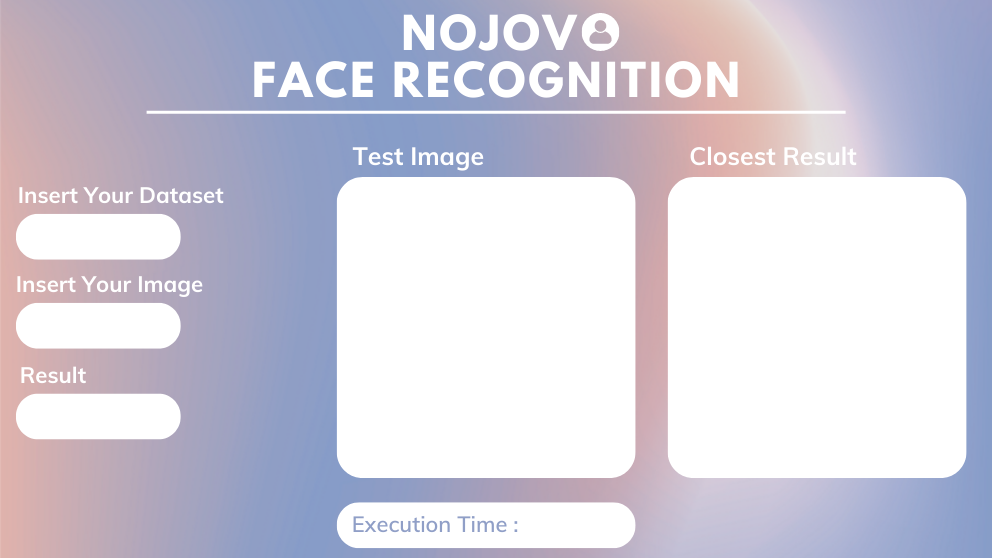
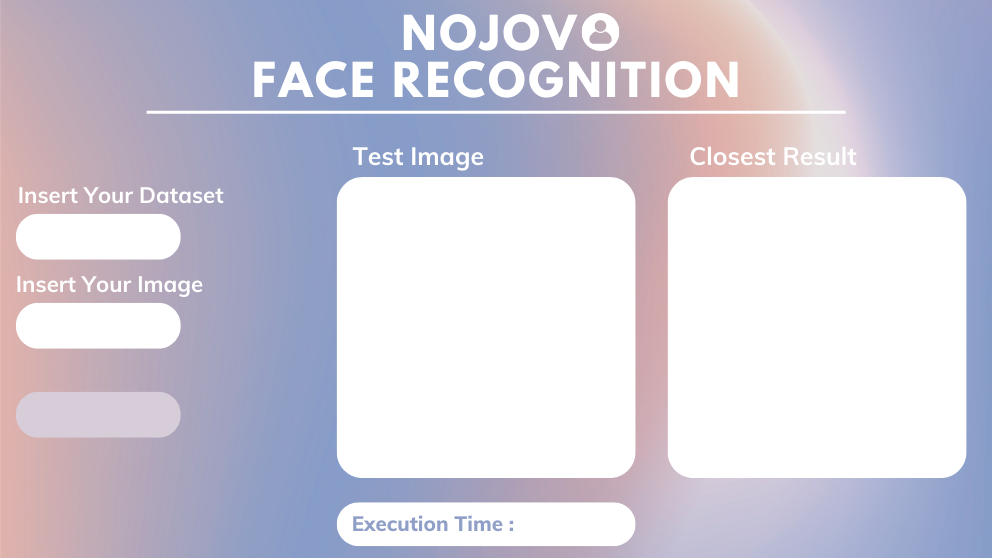
ngerapihin main

Changed region(s): [[0.0, 0.6398, 0.1875, 0.7921], [0.3438, 0.914, 0.625, 1.0]]

diff --git a/src/main.py b/src/main.py
@@ -1,0 +1,125 @@
+from tkinter import *
+from tkinter import filedialog
+from PIL import ImageTk, Image
+from step1 import *
+from eigenfaces import *
+from eucidilian import *
+import matplotlib.pyplot as plt
+import numpy as np
+import cv2
+import os
+import time
+
+def get_elapsed_time():
+    return end_time - start_time
+    
+def face_recog():
+    
+    global folder_path, file_path, start_time, end_time
+    start_time = time.time()
+    data = folder_path.get()
+    image_name = []
+    for filename in os.listdir(data):
+        image_name.append(filename)
+    images = imagevector(data)
+    mean = meanSetImg(images)
+    differenceimg = setDiffImg(images,mean)
+    covariance = covarian(differenceimg)
+    tempval, eigvect = qreigen(covariance)
+
+    eigfacearr = eigface(eigvect,differenceimg)
+
+    test = file_path.get()
+    testimg = cv2.imread(test,0)
+    testimg = cv2.resize(testimg,(256,256))
+    testimg = np.array(testimg).flatten()
+    for i in range(256*256) :
+        testimg[i] -= mean[i]
+
+    testimg = reshapeimg(testimg)
+    for i in range (len(differenceimg)):
+        differenceimg[i] = reshapeimg(differenceimg[i])
+    print(len(differenceimg))
+    wtest = weighttest(eigfacearr,testimg)
+    w = weightdata(eigfacearr,differenceimg)
+    print(len(w))
+    x = distance(wtest,w)
+    # showimg(images,x)
+    print(image_name[x])
+    closest_path = os.path.join(data, image_name[x])
+    closest_img = Image.open(closest_path)
+    closest_img = closest_img.resize((240, 240))
+    closest_img = ImageTk.PhotoImage(closest_img)
+    closest_img_label = Label(image=closest_img)
+    closest_img_label.image = closest_img
+    closest_img_label.place(x=695, y=205)
+    end_time = time.time()
+    ex_time1 = get_elapsed_time()
+    ex_time = str(round(ex_time1, ndigits=2)) + " detik"
+    ex_time_label = Label(window, text= ex_time , font=("Arial Bold", 13), fg="#909fc7", bg="white", bd=0)
+    ex_time_label.place(x=532, y=515)
+    
+def open_folder():
+    global no_folder
+    filename = filedialog.askdirectory(initialdir = "test/dataset", title = "Select A Folder")
+    shortfilename = filename.split('/')[len(filename.split('/'))-1]
+    label_folder = Label(window, text=shortfilename, font=("Arial Bold", 9), fg="#909fc7", bg="white", bd=0)
+    label_folder.place(x=190, y=230)
+    no_folder.config(text=label_folder)
+    folder_path.set(filename)
+    folder_path.get()
+
+def open_file():
+    global my_image
+    filename = filedialog.askopenfilename(initialdir = "test/dataset", title = "Select A File", filetype = (("jpeg files", "*.jpg"), ("all files", "*.*")))
+    # my_label = Label(window, text=window.filename)       
+    my_image = Image.open(filename)
+    my_image = my_image.resize((240, 240), Image.ANTIALIAS)
+    my_image = ImageTk.PhotoImage(my_image)
+    my_image_label = Label(window, image=my_image)
+    my_image_label.image = my_image
+    my_image_label.place(x=365, y=205)
+    shortfilename = filename.split('/')[len(filename.split('/'))-1]
+    label_image = Label(window, text=shortfilename, font=("Arial Bold", 9), fg="#909fc7", bg="white", bd=0)
+    label_image.place(x=190, y=320)
+    no_file2.config(text=label_image)
+    file_path.set(filename)
+    file_path.get()
+    
+window = Tk() 
+window.title("Face Recognition")    
+window.geometry("992x558")
+window.resizable(0, 0)
+bg = PhotoImage(file = "src/bg.png")
+label_bg = Label(window, image = bg)
+label_bg.place(x=0, y=0, relwidth=1, relheight=1)
+no_folder = Label(window, text="No folder chosen", font=("Arial Bold", 9), fg="#909fc7", bg="white", bd=0)
+no_folder.place(x=190, y=230)
+no_file2 = Label(window, text="No file chosen", font=("Arial Bold", 9), fg="#909fc7", bg="white", bd=0)
+no_file2.place(x=190, y=320)
+
+bp = Image.open("src/bp.jpg")
+bp = bp.resize((240, 240), Image.ANTIALIAS)
+bp = ImageTk.PhotoImage(bp)
+bp_label = Label(window, image=bp)
+bp_label.image = bp_label
+bp_label.place(x=365, y=205)
+bp2 = Image.open("src/bp.jpg")
+bp2 = bp2.resize((240, 240), Image.ANTIALIAS)
+bp2 = ImageTk.PhotoImage(bp2)
+bp2_label = Label(window, image=bp2)
+bp2_label.image = bp2_label
+bp2_label.place(x=695, y=205)
+folder_path = StringVar()
+file_path = StringVar()
+
+button1 = Button(window, text="Choose Folder", command=open_folder , font=("Arial Bold", 14), fg="#909fc7", bg="white", activebackground="white", activeforeground="white", bd=0)
+button1.place(x=23, y=220)
+button2 = Button(window, text="Choose File", command=open_file, font=("Arial Bold", 14), fg="#909fc7", bg="white", activebackground="white", activeforeground="white", bd=0)
+button2.place(x=36, y=308)
+button3 = Button(window, text="CHECK",command=face_recog, font=("Arial Bold", 14), fg="white", bg="#d7ccd9", activebackground="#d7ccd9", activeforeground="white", bd=0)
+button3.place(x=53, y=398)
+
+
+window.mainloop()
+

diff --git a/src/eigenfaces.py b/src/eigenfaces.py
@@ -1,43 +1,38 @@
 import numpy as np
-import cv2
-import os
 import matplotlib.pyplot as plt
 
 def qr(A):
-  #source: #https://rosettacode.org/wiki/QR_decomposition#Python
     m, n = A.shape
     Q = np.eye(m)
     for i in range(n - (m == n)):
         H = np.eye(m)
-        #calculate Householder matrix i: rows and i: columns from A i: rows and ith column
-        H[i:, i:] = make_householder(A[i:, i])
+        H[i:, i:] = householder(A[i:, i])
         Q = Q@H
         A = H@A
     return Q, A
  
-def make_householder(a):
-    #find prependicular vector to mirror
-    u = a / (a[0] + np.copysign(np.linalg.norm(a), a[0]))
+def householder(a):
+    u = a / (a[0] + np.copysign(euclideanDistance(a,0), a[0]))
     u[0] = 1
     H = np.eye(a.shape[0])
-    #finding Householder projection
     H -= (2 / np.dot(u, u)) * u[:, None] @ u[None, :]
     return H
 
-
-#eigenvektor
-def find_eig_qr(A):
+def qreigen(A):
     pQ = np.eye(A.shape[0])
     X=A.copy()
-    # print(pQ)
-    # print(X)
-    for i in range(100):
+    for i in range(10):
             Q,R = qr(X)
             pQ = pQ @ Q
             X = R @ Q
-    # for i in range(len(X)):
 
     return np.diag(X), pQ
+
+def euclideanDistance(x, y): 
+    temp = np.subtract(x, y)
+    sum_sq = np.dot(np.transpose(temp), temp)
+    return(np.sqrt(sum_sq))
+
 
 def eigface(eigvect,differenceimg):
     leneigen = round(len(differenceimg) * 0.06)

diff --git a/src/eigenvector.py b/src/eigenvector.py
@@ -38,24 +38,24 @@ def euclidean_distance(x, y):
     sum_sq = np.dot(np.transpose(temp), temp)
     return(np.sqrt(sum_sq))
 
-# m = 4
-# n = 4
+m = 4
+n = 4
 
-# A = np.random.rand(m, n)
-# # B = find_eig_qr(A)
-# # print(B)
+A = np.random.rand(m, n)
+# B = find_eig_qr(A)
+# print(B)
 
-# q, r = np.linalg.qr(A)
-# Q, R = qr(A)
+q, r = np.linalg.qr(A)
+Q, R = qr(A)
 
-# with np.printoptions(linewidth=9999, precision=20, suppress=True):
-#     print("**** Q from qr_decomposition")
-#     print(Q)
-#     print("**** Q from np.linalg.qr")
-#     print(q)
-#     print()
+with np.printoptions(linewidth=9999, precision=20, suppress=True):
+    print("**** Q from qr_decomposition")
+    print(Q)
+    print("**** Q from np.linalg.qr")
+    print(q)
+    print()
     
-#     print("**** R from qr_decomposition")
-#     print(R)
-#     print("**** R from np.linalg.qr")
-#     print(r)
+    print("**** R from qr_decomposition")
+    print(R)
+    print("**** R from np.linalg.qr")
+    print(r)

diff --git a/src/gui.py b/src/gui.py
@@ -1,6 +1,7 @@
 from tkinter import *
 from tkinter import filedialog
 from PIL import ImageTk, Image
+from main import *
 
 window = Tk() 
 window.title("Face Recognition")    
@@ -61,6 +62,7 @@ button1 = Button(window, text="Choose Folder", command=open_folder , font=("Aria
 button1.place(x=23, y=220)
 button2 = Button(window, text="Choose File", command=open_file, font=("Arial Bold", 14), fg="#909fc7", bg="white", activebackground="white", activeforeground="white", bd=0)
 button2.place(x=36, y=308)
-
+button3 = Button(window, text="CHECK",command=face_recog(), font=("Arial Bold", 14), fg="#909fc7", bg="white", activebackground="white", activeforeground="white", bd=0)
+button3.place(x=36, y=308)
 window.mainloop()
 

diff --git a/src/eucidilian.py b/src/eucidilian.py
@@ -51,6 +51,6 @@ def showimg(images,h):
     # plt.imshow(images[h], cmap = 'RGB')
     # plt.show()
     images[h] = np.array(images[h])
-    cv2.imshow('image', images[h])
-    cv2.waitKey(0)
-    cv2.destroyAllWindows()
+    # cv2.imshow('image', images[h])
+    # cv2.waitKey(0)
+    # cv2.destroyAllWindows()
